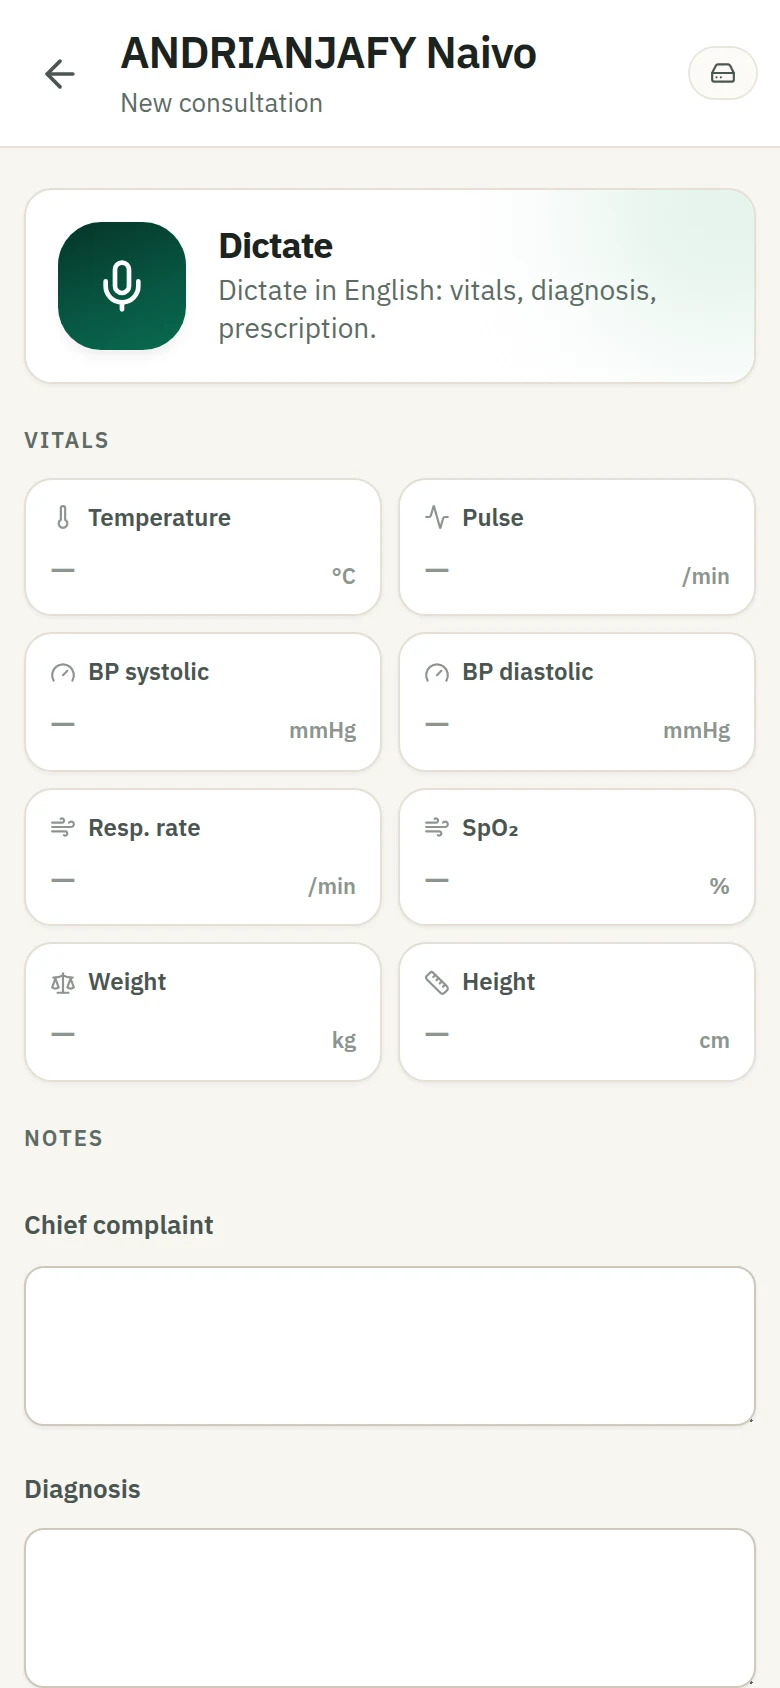
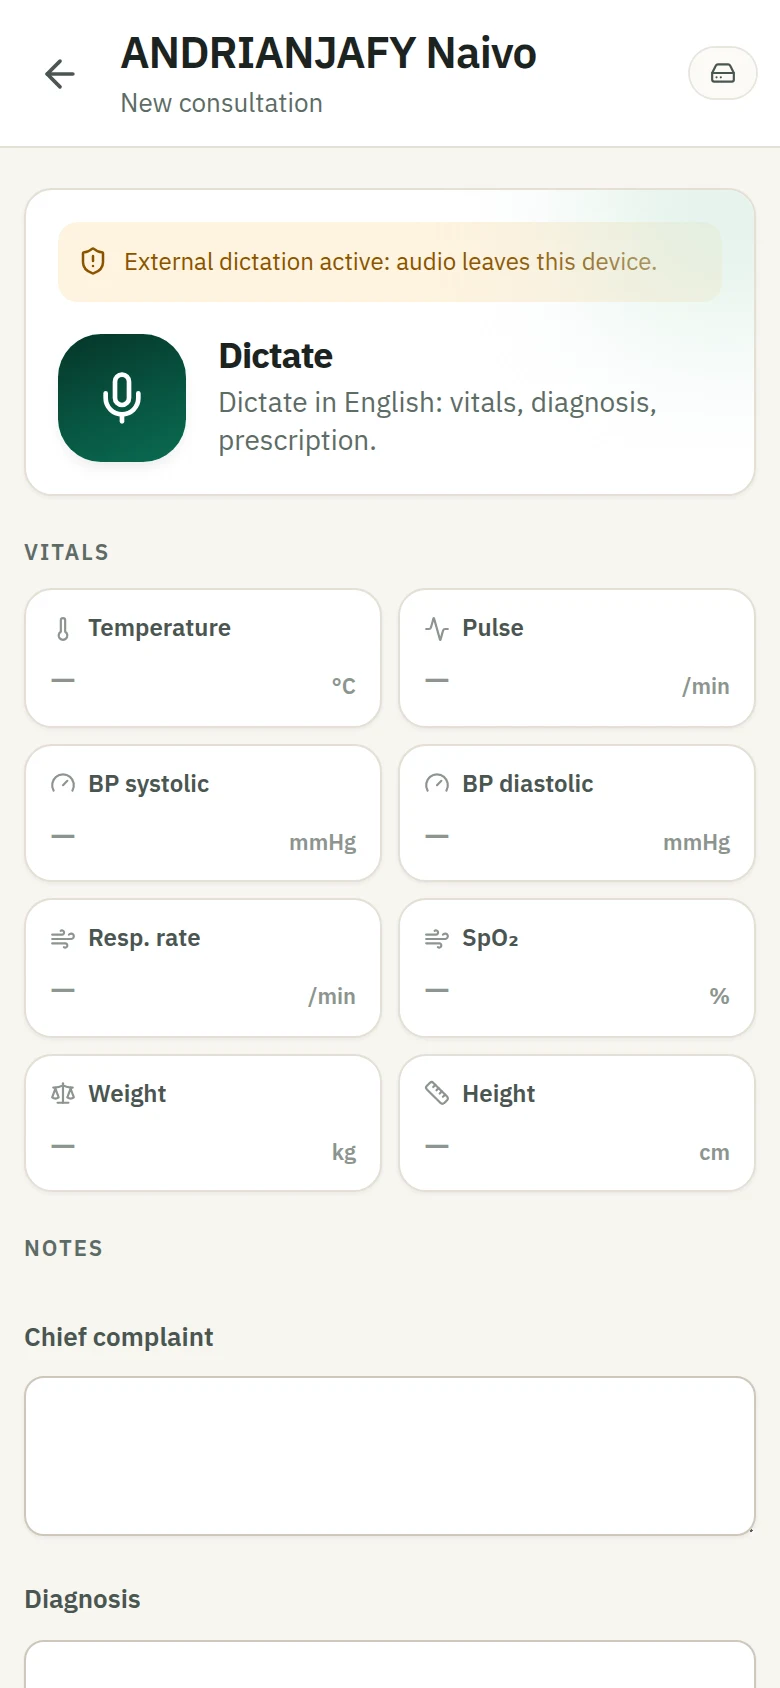
Prepare 0.0.2: document what review found, and show the disclosure
Version bumped in package.json, the lockfile and the three localised version
strings, which now name the real limitations — eight of ten patient
translations unreviewed, placeholder DHIS2 identifiers, records unencrypted —
rather than the one from 0.0.1.

The README opens with what review found, as a table of five controls that were
described more favourably than they behaved. That is the honest framing: the
pattern across all five was not carelessness in any single place, it was that
nothing failed when the description and the behaviour diverged. Three were
invisible at the levels most often exercised, which is the argument for having
somebody else read it.

Screenshots regenerated, and the dictation disclosure is now captured as its
own frame. It earns the space: it is the screen where the app declines to offer
the microphone until somebody accountable accepts that audio leaves the device,
and it sits beside the working panel with its standing reminder. A demo that
shows only the working state would be making the same omission this release
exists to fix.

CHANGELOG records 0.0.2 in two halves — what external review found, and what
running the model for the first time found — because they are different kinds
of failure and collapsing them would lose that.

Install figures corrected to what `npm run eval` actually prints (139 kB
blocking, 232 kB precached) rather than vite's, so the number in the README is
the number a reader can reproduce.
[…]

diff --git a/src/i18n/strings.ts b/src/i18n/strings.ts
@@ -555,7 +555,7 @@ const fr: Strings = {
   clearDataConfirm: 'Effacer toutes les données de cet appareil ?',
   noReportData: 'Aucune consultation validée ce mois-ci.',
   prototypeNotice:
-    'AfyaCore v0.0.1, prototype. Les libellés en malgache n’ont pas encore été relus par un locuteur natif. L’export DHIS2 contient des identifiants à remplacer.',
+    'AfyaCore v0.0.2, prototype. Huit des dix traductions destinées aux patients n’ont pas été relues par un locuteur. L’export DHIS2 contient des identifiants à remplacer. Les dossiers ne sont pas chiffrés sur l’appareil.',
 }
 
 const mg: Strings = {
@@ -821,7 +821,7 @@ const mg: Strings = {
   clearDataConfirm: 'Hofafana ny rakitra rehetra ato amin’ity finday ity?',
   noReportData: 'Tsy nisy fitsaboana vita ity volana ity.',
   prototypeNotice:
-    'AfyaCore v0.0.1, andrana. Mbola tsy voahamarin’ny tompon-teny ny teny malagasy. Misy laharana tokony hosoloina ny fanondranana DHIS2.',
+    'AfyaCore v0.0.2, andrana. Valo amin’ny folo ny fandikan-teny ho an’ny marary tsy mbola voahamarina. Misy laharana tokony hosoloina ny fanondranana DHIS2. Tsy voaisy fiarovana ny antontan-taratasy ao amin’ny fitaovana.',
 }
 
 const en: Strings = {
@@ -1087,7 +1087,7 @@ const en: Strings = {
   clearDataConfirm: 'Erase all data on this device?',
   noReportData: 'No confirmed consultations this month.',
   prototypeNotice:
-    'AfyaCore v0.0.1, prototype. The Malagasy labels have not yet been reviewed by a native speaker. The DHIS2 export contains placeholder identifiers.',
+    'AfyaCore v0.0.2, prototype. Eight of the ten patient-facing translations have not been reviewed by a speaker. The DHIS2 export contains placeholder identifiers. Records are not encrypted on the device.',
 }
 
 export const STRINGS: Record<LangCode, Strings> = { fr, mg, en }

diff --git a/README.md b/README.md
@@ -10,7 +10,7 @@
   <a href="https://github.com/SyedMohammedSameer/AfyaCore/actions/workflows/ci.yml"><img alt="CI" src="https://github.com/SyedMohammedSameer/AfyaCore/actions/workflows/ci.yml/badge.svg"></a>
   <a href="LICENSE"><img alt="Licence: MIT" src="https://img.shields.io/badge/licence-MIT-0d8b7d.svg"></a>
   <img alt="PWA" src="https://img.shields.io/badge/PWA-installable-0d8b7d.svg">
-  <img alt="Bundle" src="https://img.shields.io/badge/initial%20load-~137%20kB%20gzip-0d8b7d.svg">
+  <img alt="Bundle" src="https://img.shields.io/badge/initial%20load-~139%20kB%20gzip-0d8b7d.svg">
   <img alt="Offline" src="https://img.shields.io/badge/offline-first-0d8b7d.svg">
 </p>
 
@@ -18,11 +18,35 @@
   <img src="docs/screenshots/desktop-today.webp" alt="AfyaCore dashboard on a laptop" width="820">
 </p>
 
-> **Status: pilot candidate.** Not yet validated with a facility or an NGO. The sync server now
-> authenticates devices and keeps a tamper-evident audit trail; records are still stored unencrypted
-> on the device. See [Known limits](#known-limits) and [SECURITY.md](SECURITY.md).
+> **Status: pilot candidate, `0.0.2`.** Not yet validated with a facility or an NGO, and no clinician
+> has used it. Records are stored unencrypted on the device. An external review in September 2026
+> found five release blockers — dictation sending audio off-device while the docs claimed otherwise,
+> rejected sync records silently marked as synced, "anonymous" exports that were still linkable,
+> role permissions declared but not enforced, and invalid FHIR identifiers — all now fixed, each
+> with a regression test named after the failure. See [Known limits](#known-limits),
+> [SECURITY.md](SECURITY.md) and [docs/COMPLIANCE.md](docs/COMPLIANCE.md).
 
 ---
+
+## What review found
+
+`0.0.2` exists because an external review read the whole repository and found
+five things the code did that the documentation denied. Every one is fixed and
+every one has a regression test named after the failure, because the pattern
+across all five was the same: a control that was **described more favourably
+than it behaved**, and nothing that failed when it did.
+
+| Found | Was | Now |
+|---|---|---|
+| Dictation | Audio streamed to the browser vendor while SECURITY.md claimed no third-party call at runtime | On-device where the browser supports it; otherwise off until acknowledged, audited, withdrawable |
+| Sync conflicts | A record the server rejected was marked as synced, and the pull could never correct it — permanent silent divergence | The canonical row travels with the rejection and converges; rejected rows are never acknowledged |
+| "Anonymous" exports | Stable encounter and prescription ids, exact row timestamps, and prescription notes never scrubbed at all | All ids pseudonymised per export, row timestamps dropped, notes scrubbed |
+| Role permissions | Declared in a matrix that only components consulted, and Settings did not | Enforced at the service boundary; a clinician cannot export identified, delete, repoint sync or erase |
+| FHIR ids | 73 characters against R4's 64-char limit, and `urn:uuid:` on things that were not UUIDs | Folded to a stable legal id; the compliance claim downgraded until a validator has actually run |
+
+Three of the five were invisible at the levels most often exercised — the FHIR
+overflow only bites identified exports, the export linkage only shows up when
+you diff two files — which is the argument for having somebody else read it.
 
 ## The app
 
@@ -38,6 +62,15 @@ Every screenshot below is the real build against the synthetic demo workspace, r
 |---|---|---|
 | <img src="docs/screenshots/mobile-lock.webp" alt="PIN entry lock screen" width="240"> | <img src="docs/screenshots/mobile-review.webp" alt="Review screen showing per-field provenance" width="240"> | <img src="docs/screenshots/mobile-instructions.webp" alt="Patient instruction sheet in Malagasy with dosing icons" width="240"> |
 | A shared phone needs to know who is holding it, or the audit trail says "someone at this facility". | Per-field provenance. Low-confidence values are flagged *Check this* before anything is saved. | Rendered in the **patient's** language, with dosing icons for anyone who cannot read. |
+
+The one screen worth dwelling on. The browser's dictation sends audio to the vendor's recognition
+service, so the microphone is **not offered** until somebody accountable for the facility's data
+says that is acceptable — and once it is, a reminder stays on screen for as long as it is in force:
+
+| Before acknowledgement | After |
+|---|---|
+| <img src="docs/screenshots/mobile-dictation-disclosure.webp" alt="Dictation disclosure: audio leaves the device" width="240"> | <img src="docs/screenshots/mobile-encounter.webp" alt="Consultation capture with the dictation panel active" width="240"> |
+| No microphone. Typing works offline and never leaves the device, so refusing costs typing speed rather than function. | Audited, withdrawable, and never silent about what it is doing. |
 
 The same build on a laptop, where the roster becomes a rail and the reporting screen has room to
 breathe:
@@ -397,9 +430,9 @@ dependency (~7 MB) and it is downloaded only when someone asks for it. Every mod
 [`docs/MODEL-RESEARCH.md`](docs/MODEL-RESEARCH.md) is an upgrade path behind an interface, not a
 launch blocker, which is what keeps the install small enough for a 2G connection.
 
-Initial download: **~137 kB gzipped** (the entry chunk and its stylesheet) plus a 45 kB font.
+Initial download: **~139 kB gzipped** (the entry chunk and its stylesheet) plus a 45 kB font.
 Routes beyond the home screen load on demand and are then cached permanently by the service worker;
-the full precached shell is 226 kB over the wire, 612 KiB on disk.
+the full precached shell is 232 kB over the wire, 629 KiB on disk.
 
 ## One app, every device
 
@@ -554,9 +587,9 @@ destroyed. Accuracy numbers never fail a build; correctness failures do.
 
 | Install | |
 |---|---|
-| Initial load, blocking | 137 kB gzip |
+| Initial load, blocking | 139 kB gzip |
 | Interface font, `font-display: swap` | 45 kB raw |
-| Precached shell, background | 226 kB |
+| Precached shell, background | 232 kB |
 | On demand, never precached | OCR ~7 MB · PII model ~67 MB |
 
 Three things this table is careful about:

diff --git a/CHANGELOG.md b/CHANGELOG.md
@@ -6,6 +6,65 @@ may change.
 
 ## [Unreleased]
 
+## [0.0.2] — 2026-09-03
+
+Hardening, honesty and coverage. Everything here exists because something in
+the app behaved differently from how it was described, and in every case the
+description was the flattering one.
+
+### Fixed — found by external review
+
+- **Dictation sent patient audio to a third party** while SECURITY.md claimed
+  the app made no third-party runtime call. On-device recognition is now
+  requested and used where the browser supports it; otherwise dictation is off
+  until an administrator acknowledges the disclosure, audited and withdrawable.
+- **A sync record the server rejected was marked as synced.** The pull could
+  never correct it, because the canonical row's sequence sits below the
+  device's cursor, so the copies diverged permanently — and once retention
+  landed, a diverged row was eligible for destruction. Conflicts now carry the
+  server's canonical record and converge.
+- **"Anonymous" exports were joinable.** Stable encounter and prescription ids,
+  millisecond row timestamps sitting beside a date generalised to the month,
+  and prescription notes that were never scrubbed at all.
+- **Role permissions were declared but not enforced.** A clinician could
+  produce an identified export, delete a patient, repoint sync at another
+  server and erase the database. `requirePermission` now guards the services.
+- **FHIR ids were invalid** — 73 characters against R4's 64-char limit on
+  identified exports, and `urn:uuid:` applied to things that were not UUIDs.
+
+### Fixed — found by running the model for the first time
+
+- **The neural de-identification pass had never redacted anything.**
+  transformers.js returns no character offsets and the code filtered on them,
+  so every token was discarded while the model loaded, ran and reported itself
+  active. Offsets are now reconstructed; spans snap to whole words, which also
+  stopped partial redactions leaving `[…]antsoa` and scoring as successes.
+- **It deleted diagnoses named after people** — `lymphome hodgkinien`,
+  `hernie de Spiegel`, `Castleman's disease` — and drug names. Guarded.
+
+### Added
+
+- **Patient instructions in ten languages, covering all nine countries.**
+  Kiswahili, Wolof, Hausa, Twi, Lingala, Luganda and Dioula, alongside
+  Malagasy, French and English. Previously the sheet printed in the
+  *clinician's* language for eight of the nine.
+- **Research consent per patient**, enforced inside `deidentify()` so no export
+  path can bypass it. Absence is refusal.
+- **Retention periods and purge**, on device and server, with the eligible
+  count shown before anything is destroyed.
+- **Evaluation against real clinical text** (E3C, 2,272 gold-annotated
+  entities) alongside the synthetic corpus.
+- **Compliance documentation** — controller analysis, data flow, DPIA with a
+  risk register, nine-country regime matrix, threat model.
+- **English OCR**, selected by country rather than reading English registers
+  with the French model.
+
+### Changed
+
+- Warm paper visual language, IBM Plex Sans actually shipped rather than named.
+- FHIR export claim downgraded from "standards-compliant" to "structurally
+  valid; not validator-checked".
+
 ## [0.0.1]
 
 First public prototype. Not validated with a facility, and not safe for real
